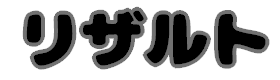
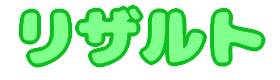
リザルトシーンにstateパータン導入

diff --git a/project/Engine/scene/gameScene/resultScene.cpp b/project/Engine/scene/gameScene/resultScene.cpp
@@ -31,6 +31,7 @@
 #include "../../../Game/stage/skydome.h"
 #include "../../3d/CameraManager.h"
 #include "math.h"
+#include <utility>
 
 resultScene::resultScene()
 {
@@ -59,9 +60,7 @@ void resultScene::Initialize()
     skydome_ = std::make_unique<skydome>();
     skydome_->Initialize();
 
-    state_ = State::kSceneChange;
-    stateTimer_ = 1.0f;
-    Transition_->Start(SceneTransition::State::In, 1.0f);
+    ChangeState(std::make_unique<SceneChange>());
 }
 
 void resultScene::Finalize()
@@ -71,72 +70,19 @@ void resultScene::Finalize()
 void resultScene::Update()
 {
     float deltaTime = SceneManager::GetInstance()->GetDeltaTime();
-    auto* input = Input::GetInstance();
 
-    switch (state_) {
-    case resultScene::State::kSceneChange:
-        stateTimer_ -= deltaTime;
-        if (stateTimer_ <= 0.0f) {
-            state_ = State::kResultUpdateNow;
-            ResultUI_->StartAnimation();
-        }
-
-        break;
-    case resultScene::State::kResultUpdateNow:
-        // 演出スキップ入力
-        if (input->IsControllerConnected()) {
-            if (input->TriggerButton(XINPUT_GAMEPAD_A)) {
-                ResultUI_->SkipAnimation();
-                state_ = State::kResultWait;
-            }
-        }
-
-        if (input->TriggerKey(DIK_RETURN)) {
-            ResultUI_->SkipAnimation();
-            state_ = State::kResultWait;
-        } else if (ResultUI_->IsAnimationEnd()) {
-            state_ = State::kResultWait;
-        }
-
-        break;
-    case resultScene::State::kResultWait:
-
-         if (input->IsControllerConnected()) {
-            if (input->TriggerButton(XINPUT_GAMEPAD_A)) {
-                 ResultUI_->SetVisible(false); // 脱出演出の邪魔にならないようUIを非表示化
-                 resultObject_->StartEscape(); // 機体・カメラの脱出シークエンス開始
-                 state_ = State::kPlanetEscape;
-            }
-        }
-
-        // リザルト確認完了後、Enterで惑星脱出演出へ移行
-        if (input->TriggerKey(DIK_RETURN)) {
-            ResultUI_->SetVisible(false); // 脱出演出の邪魔にならないようUIを非表示化
-            resultObject_->StartEscape(); // 機体・カメラの脱出シークエンス開始
-            state_ = State::kPlanetEscape;
-        }
-        break;
-    case resultScene::State::kPlanetEscape:
-        // 脱出演出の完了を待機してからフェードアウト開始
-        if (resultObject_->IsEscapeFinished()) {
-            Transition_->Start(SceneTransition::State::Out, 1.0f);
-            stateTimer_ = 1.0f;
-            state_ = State::kReturnSelect;
-        }
-        break;
-    case resultScene::State::kReturnSelect:
-        stateTimer_ -= deltaTime;
-        if (stateTimer_ <= 0.0f) {
-            SceneManager::GetInstance()->ChangeScene("SELECT");
-            return;
-        }
-        break;
+    if (isSceneFinished_) {
+        return;
     }
 
     Transition_->Update(deltaTime);
     resultObject_->Update();
     ResultUI_->Update();
     skydome_->Update();
+
+    if (currentState_) {
+        currentState_->Update(*this, deltaTime);
+    }
 }
 
 void resultScene::Draw()
@@ -158,4 +104,21 @@ void resultScene::Draw()
 
     SpriteCommon::GetInstance()->PrepareSpriteDraw();
     ResultUI_->SpritDraw();
+}
+
+void resultScene::ChangeState(std::unique_ptr<IResultSceneState> nextState)
+{
+    if (currentState_) {
+        currentState_->Exit(*this);
+    }
+    currentState_ = std::move(nextState);
+    if (currentState_) {
+        currentState_->Enter(*this);
+    }
+}
+
+void resultScene::FinishAndChangeScene(const std::string& nextSceneName)
+{
+    isSceneFinished_ = true;
+    SceneManager::GetInstance()->ChangeScene(nextSceneName);
 }

diff --git a/project/Engine/scene/gameState/ResultSceneState.cpp b/project/Engine/scene/gameState/ResultSceneState.cpp
@@ -1,0 +1,114 @@
+#include "ResultSceneState.h"
+#include "../../../Game/SceneTransition.h"
+#include "../../../Game/UI//Result/ResultObject.h"
+#include "../../../Game/UI//Result/ResultUI.h"
+#include "../../../Game/stage/skydome.h"
+#include "../../3d/CameraManager.h"
+#include "../../io/Input.h"
+#include "../gameScene/resultScene.h"
+#include <memory>
+
+void SceneChange::Enter(resultScene& scene)
+{
+    scene.GetTransition()->Start(SceneTransition::State::In, 1.0f);
+}
+
+void SceneChange::Update(resultScene& scene, float deltaTime)
+{
+    stateTimer_ -= deltaTime;
+    if (stateTimer_ <= 0.0f) {
+        scene.ChangeState(std::make_unique<PlayerView>());
+        return;
+    }
+}
+
+void PlayerView::Update(resultScene& scene, float deltaTime)
+{
+    // ただ自機を映すだけ
+    stateTimer_ -= deltaTime;
+    if (stateTimer_ <= 0.0f) {
+        scene.ChangeState(std::make_unique<ResultUpdateNow>());
+        return;
+    }
+}
+
+void ResultUpdateNow::Enter(resultScene& scene)
+{
+    scene.GetResultUI()->StartAnimation();
+}
+
+void ResultUpdateNow::Update(resultScene& scene, float deltaTime)
+{
+    (void)deltaTime;
+    auto* input = Input::GetInstance();
+    auto* ResultUI = scene.GetResultUI();
+
+    if (input->IsControllerConnected()) {
+        bool isSkipInput = false;
+        if (input->IsControllerConnected() && input->TriggerButton(XINPUT_GAMEPAD_A)) {
+            isSkipInput = true;
+        }
+        if (input->TriggerKey(DIK_RETURN)) {
+            isSkipInput = true;
+        }
+
+        if (isSkipInput) {
+            ResultUI->SkipAnimation();
+            scene.ChangeState(std::make_unique<ResultWait>());
+            return;
+        }
+
+        if (ResultUI->IsAnimationEnd()) {
+            scene.ChangeState(std::make_unique<ResultWait>());
+            return;
+        }
+    }
+}
+
+void ResultWait::Update(resultScene& scene, float deltaTime)
+{
+    (void)deltaTime;
+    auto* input = Input::GetInstance();
+
+    bool isConfirmInput = false;
+    if (input->IsControllerConnected() && input->TriggerButton(XINPUT_GAMEPAD_A)) {
+        isConfirmInput = true;
+    }
+    if (input->TriggerKey(DIK_RETURN)) {
+        isConfirmInput = true;
+    }
+
+    if (isConfirmInput) {
+        scene.ChangeState(std::make_unique<PlanetEscape>());
+        return;
+    }
+}
+
+void PlanetEscape::Enter(resultScene& scene)
+{
+    scene.GetResultUI()->SetVisible(false);
+    scene.GetResultObject()->StartEscape();
+}
+
+void PlanetEscape::Update(resultScene& scene, float deltaTime)
+{
+    (void)deltaTime;
+    if (scene.GetResultObject()->IsEscapeFinished()) {
+        scene.ChangeState(std::make_unique<ReturnSelect>());
+        return;
+    }
+}
+
+void ReturnSelect::Enter(resultScene& scene)
+{
+    scene.GetTransition()->Start(SceneTransition::State::Out, 1.0f);
+}
+
+void ReturnSelect::Update(resultScene& scene, float deltaTime)
+{
+    stateTimer_ -= deltaTime;
+    if (stateTimer_ <= 0.0f) {
+        scene.FinishAndChangeScene("SELECT");
+        return;
+    }
+}

diff --git a/project/Engine/scene/gameScene/resultScene.h b/project/Engine/scene/gameScene/resultScene.h
@@ -1,6 +1,7 @@
 #pragma once
 #include "../../../Game/SceneTransition.h"
 #include "../base/BaseScene.h"
+#include "../gameState/ResultSceneState.h"
 #include <memory>
 
 class ResultObject;
@@ -25,25 +26,25 @@ public:
     // 描画
     void Draw() override;
 
-private:
-    enum class State {
-        kNull = -1,
-        kSceneChange, // シーンチェンジ中(スキップ不可)
-        kResultUpdateNow, // リザルト発表中(アニメーション,イージング等中)(スキップ可)
-        kResultWait, //  リザルト表記完了
-        kPlanetEscape, // 惑星からの脱出演出中（UI非表示・カメラ＆機体演出）
-        kReturnSelect, // ステージ選択移行
-    };
+public:
+    void ChangeState(std::unique_ptr<IResultSceneState> nextState);
+    void FinishAndChangeScene(const std::string& nextSceneName);
+
+    ResultObject* GetResultObject() const { return resultObject_.get(); }
+    ResultUI* GetResultUI() const { return ResultUI_.get(); }
+    SceneTransition* GetTransition() const { return Transition_.get(); }
 
 private:
-    State state_ = State::kSceneChange;
+    std::unique_ptr<IResultSceneState> currentState_ = nullptr;
 
     std::unique_ptr<ResultObject> resultObject_;
     std::unique_ptr<ResultUI> ResultUI_;
     std::unique_ptr<skydome> skydome_;
     std::unique_ptr<SceneTransition> Transition_;
 
-    float stateTimer_ = 1.0f;
+    
+
+    bool isSceneFinished_ = false;
 
     bool isChange = false;
 };

diff --git a/project/Engine/scene/gameState/ResultSceneState.h b/project/Engine/scene/gameState/ResultSceneState.h
@@ -1,0 +1,54 @@
+#pragma once
+class resultScene;
+
+class IResultSceneState {
+public:
+    virtual ~IResultSceneState() = default;
+
+    virtual void Enter(resultScene& scene) { (void)scene; }
+    virtual void Update(resultScene& scene, float deltaTime) = 0;
+    virtual void Exit(resultScene& scene) { (void)scene; }
+};
+
+class SceneChange : public IResultSceneState {
+public:
+    void Enter(resultScene& scene) override;
+    void Update(resultScene& scene, float deltaTime) override;
+
+private:
+    float stateTimer_ = 1.0f;
+};
+
+class PlayerView : public IResultSceneState {
+public:
+    void Update(resultScene& scene, float deltaTime) override;
+
+private:
+    float stateTimer_ = 1.0f;
+};
+
+class ResultUpdateNow : public IResultSceneState {
+public:
+    void Enter(resultScene& scene) override;
+    void Update(resultScene& scene, float deltaTime) override;
+};
+
+class ResultWait : public IResultSceneState {
+public:
+    void Update(resultScene& scene, float deltaTime) override;
+};
+
+class PlanetEscape : public IResultSceneState {
+public:
+    void Enter(resultScene& scene) override;
+    void Update(resultScene& scene, float deltaTime) override;
+};
+
+class ReturnSelect : public IResultSceneState {
+public:
+    void Enter(resultScene& scene) override;
+    void Update(resultScene& scene, float deltaTime) override;
+
+private:
+    float stateTimer_ = 1.0f;
+};

diff --git a/project/Game/UI/Result/ResultUI.cpp b/project/Game/UI/Result/ResultUI.cpp
@@ -20,7 +20,6 @@ void ResultUI::Initialize()
     std::random_device seedGenerator;
     randomEngine = std::mt19937(seedGenerator());
 
-    // Listに溜めて特定の処理でアップする仕様追加後直す
     for (int i = 0; i < 10; ++i) {
         numberList_[i] = "resources/UI/number/GameNumber" + std::to_string(i) + ".png";
         TextureManager::getInstance()->LoadTexture(numberList_[i]);
